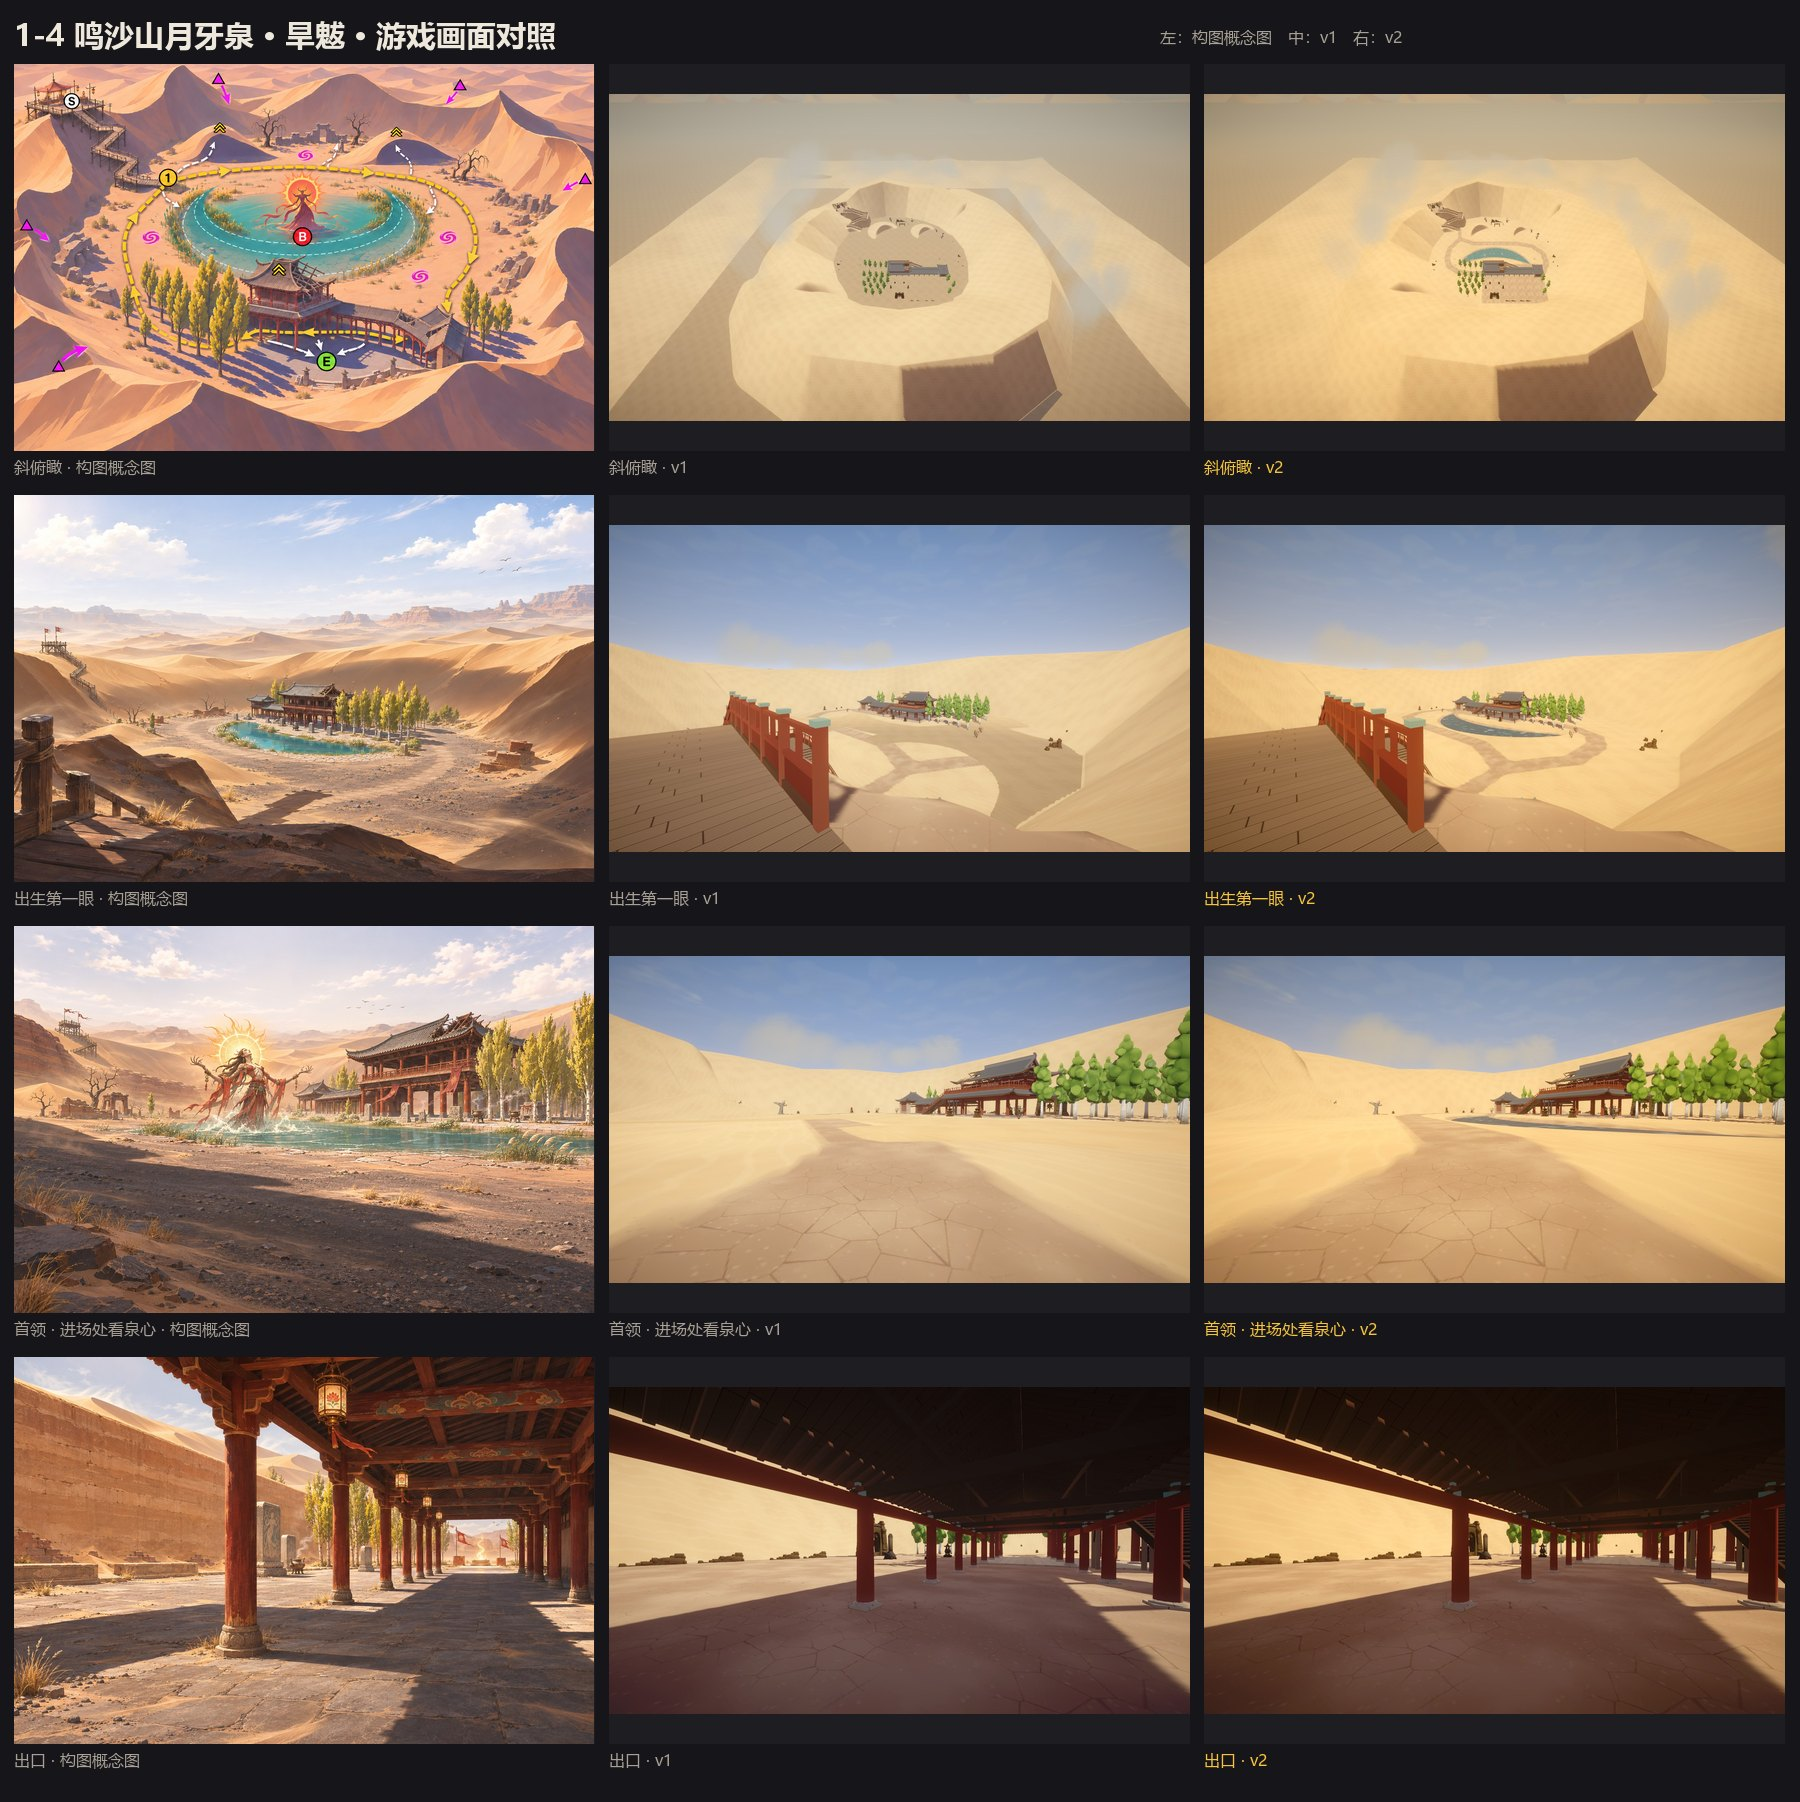
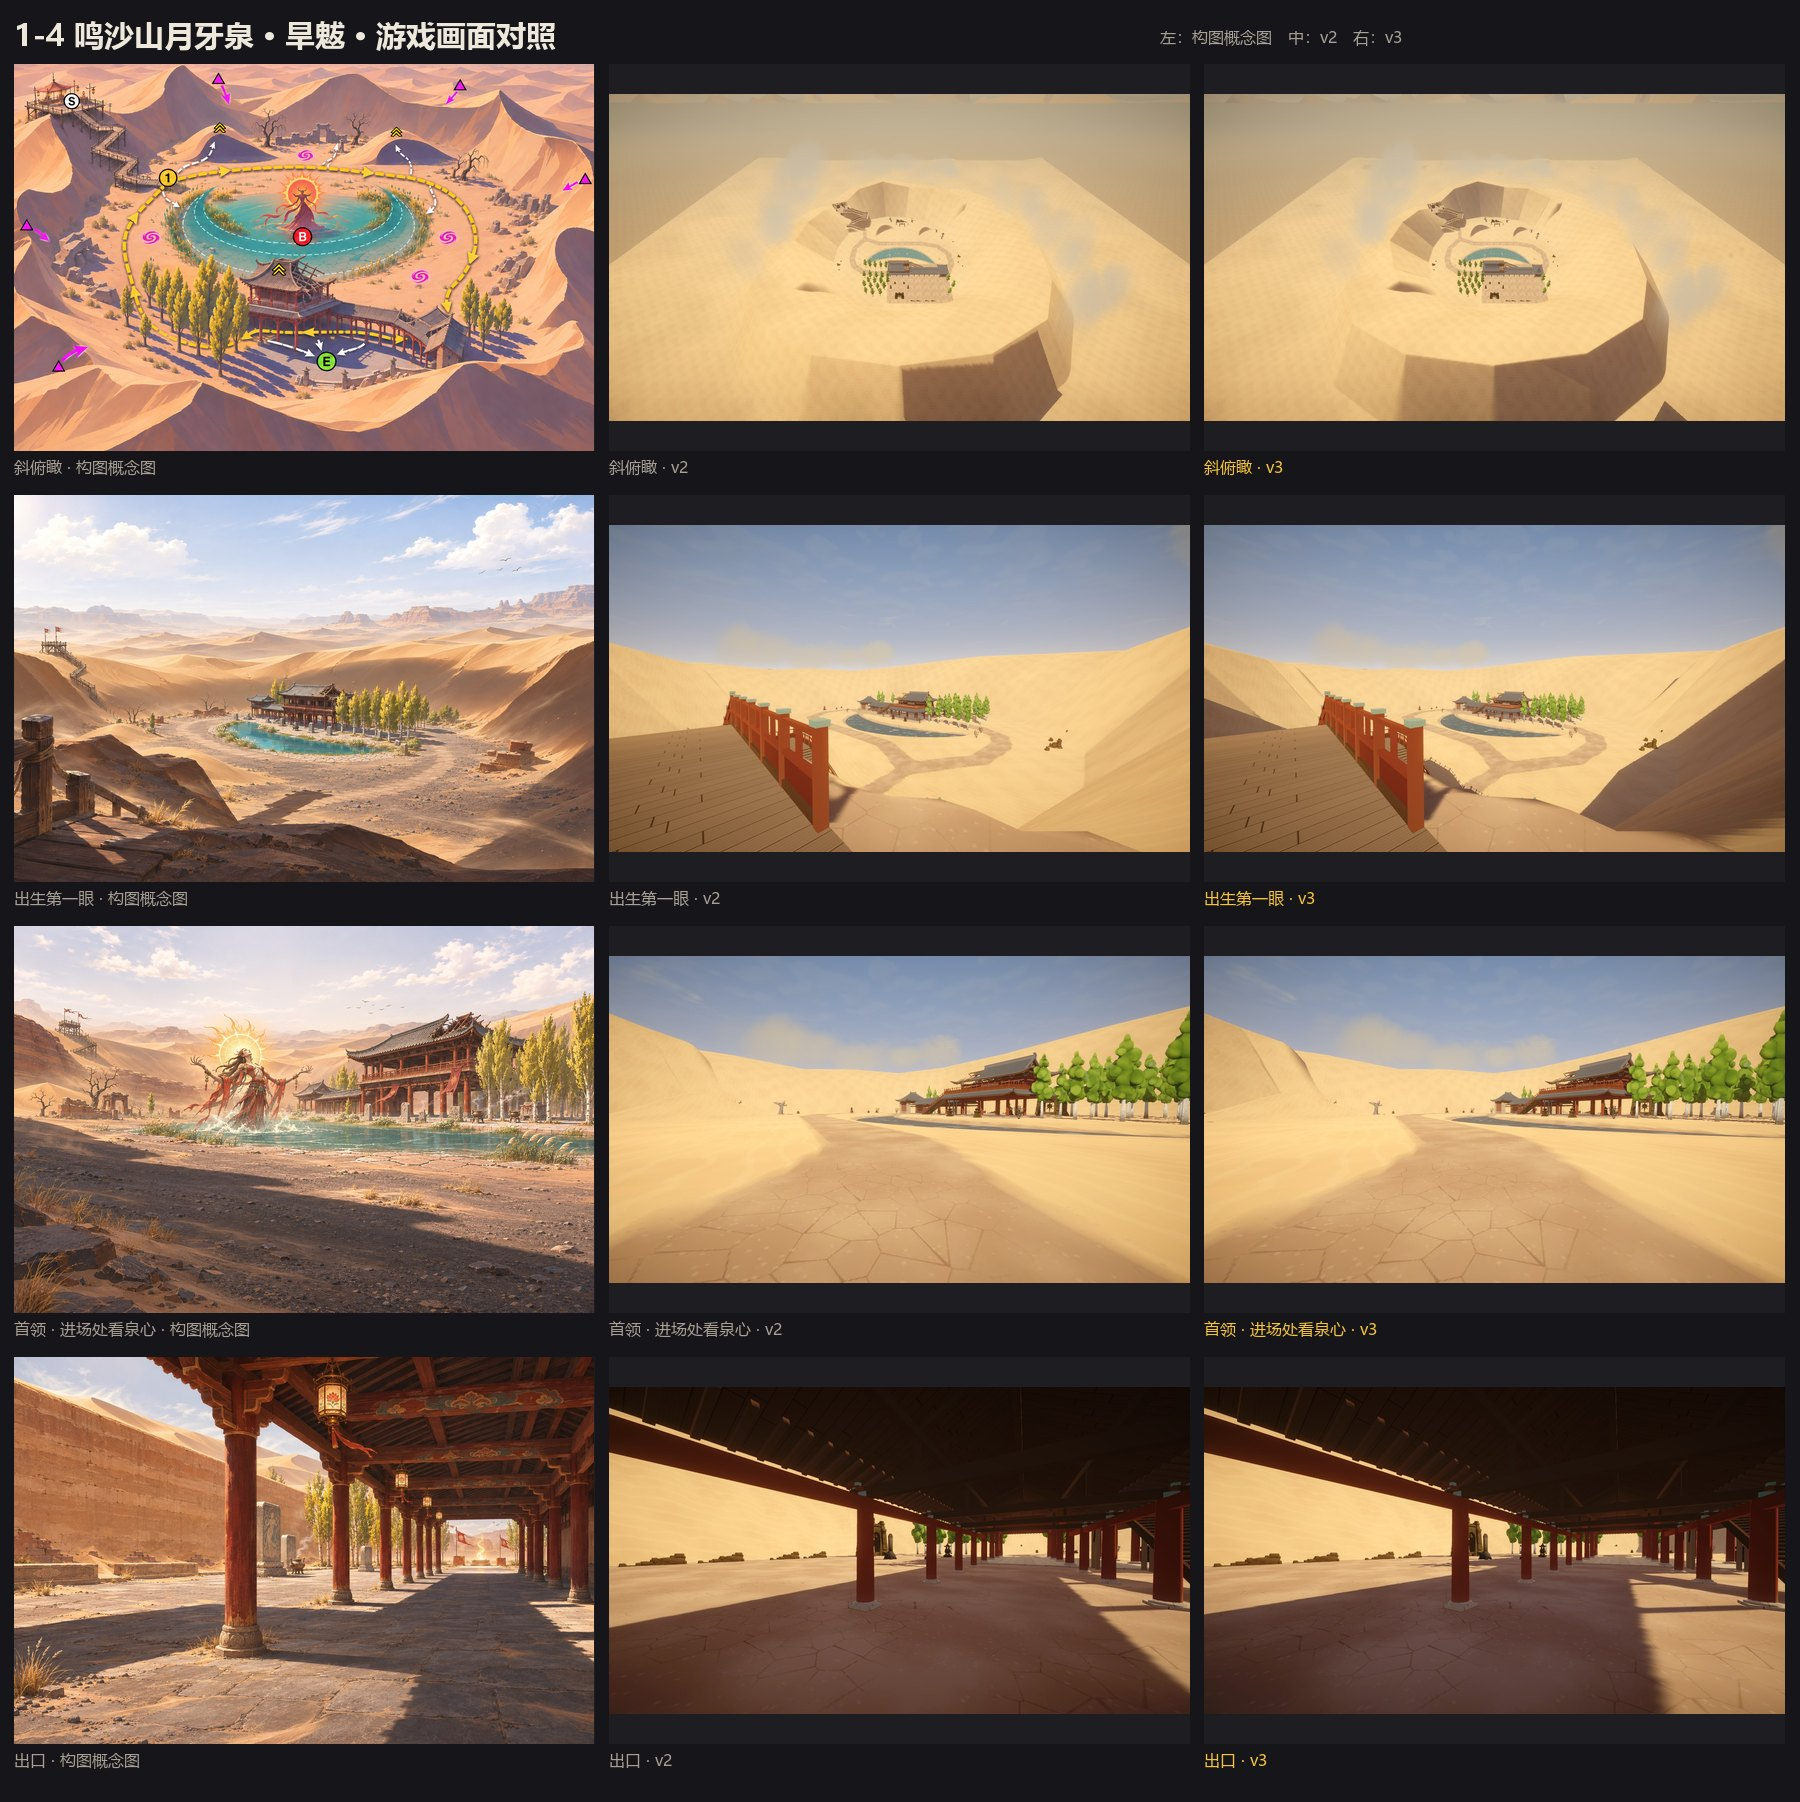
feat(desert): 1-4 光影雾第三版——太阳压到 34°、地形暗部压深偏冷，沙山一面亮一面暗；月牙泉调成更亮的青
- 1-4 游戏里同机位重拍（game/1-4_game.jpg：构图概念图 | 第二版 | 第三版）
- README 记下光影雾的结果、踩到的坑和还差的（沙暴墙、低空云形状留给特效）

diff --git a/src/world/desert/redo/runtime.ts b/src/world/desert/redo/runtime.ts
@@ -236,8 +236,8 @@ function waterParts(doc: UnitySceneDocument, c: CompiledMap, group: THREE.Group)
     source.userData = {
       unityShader: 'Spiritfire/Water',
       // 泉水：浅处青绿、深处蓝，全画面唯一的冷色
-      unityColors: { _ShallowColor: [0.28, 0.7, 0.72, 0.55], _DeepColor: [0.06, 0.3, 0.42, 0.9] },
-      unityFloats: { _Alpha: 0.75, _WaveScale: 3, _WaveSpeed: 0.5, _WaveHeight: 0.02, _Sparkle: 1.2 },
+      unityColors: { _ShallowColor: [0.18, 0.78, 0.78, 0.6], _DeepColor: [0.04, 0.38, 0.5, 0.92] },
+      unityFloats: { _Alpha: 0.85, _WaveScale: 3, _WaveSpeed: 0.5, _WaveHeight: 0.02, _Sparkle: 1.2 },
     };
     const material = createUnityWaterMaterial(source, doc.environment);
     const mesh = new THREE.Mesh(geometry, material);
